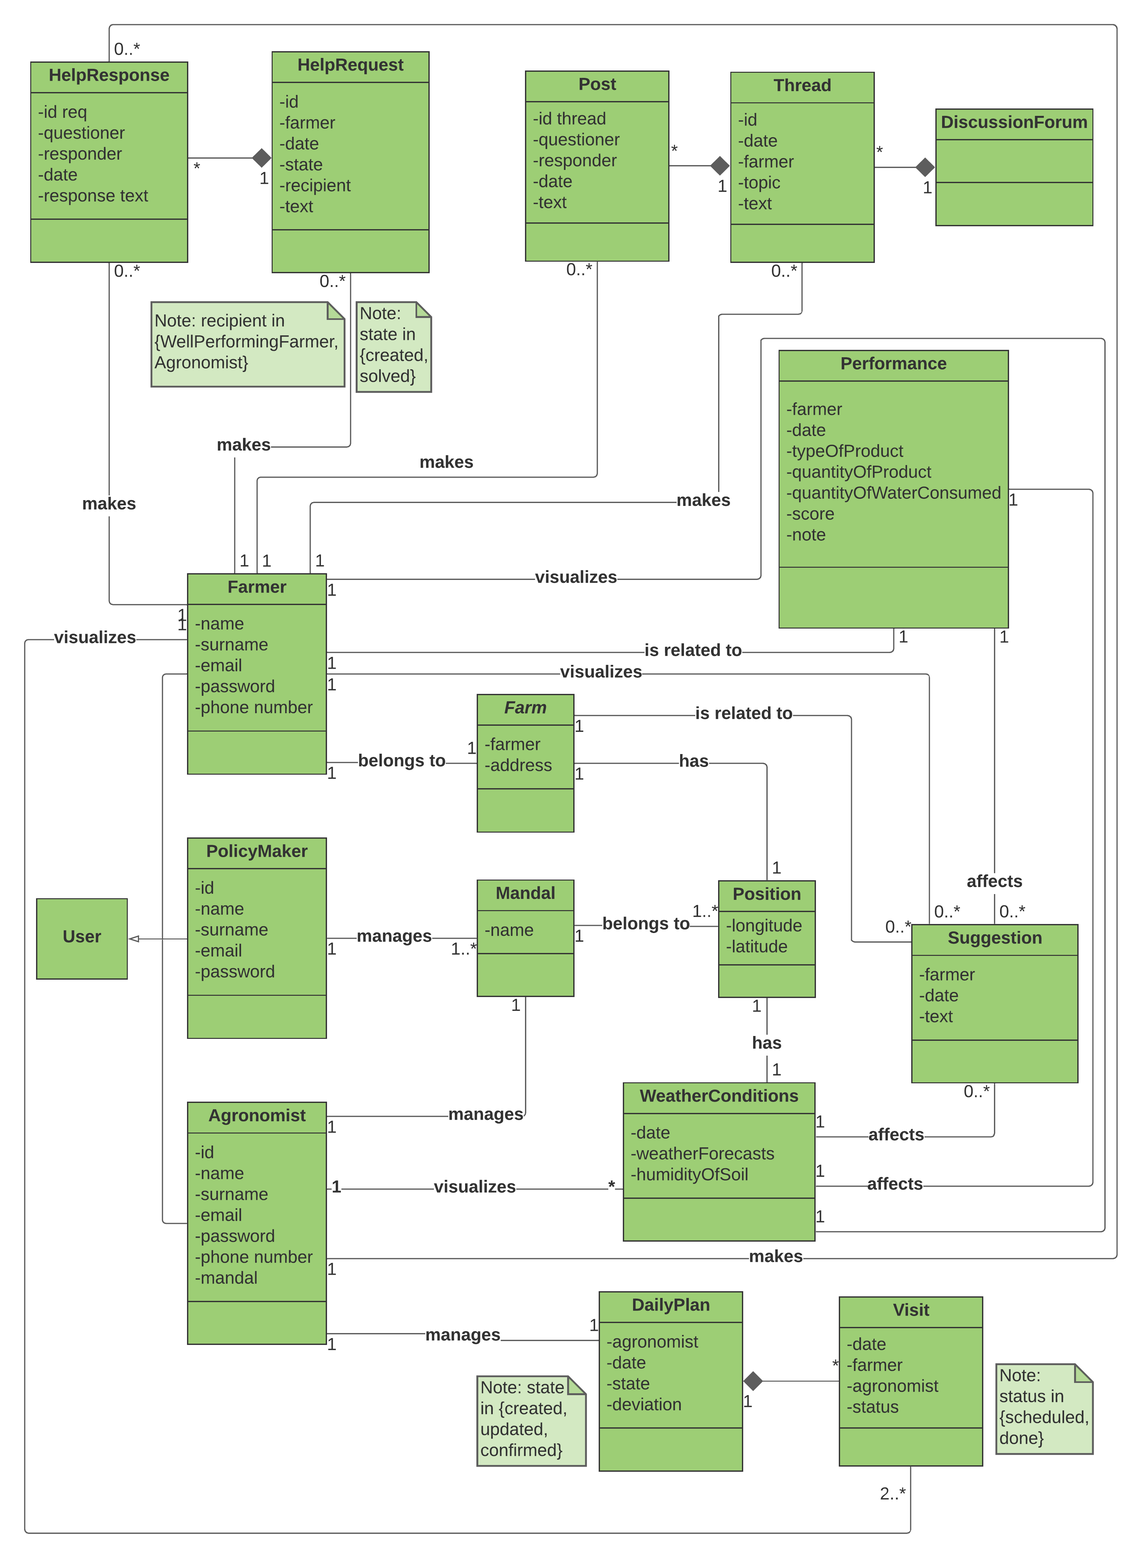
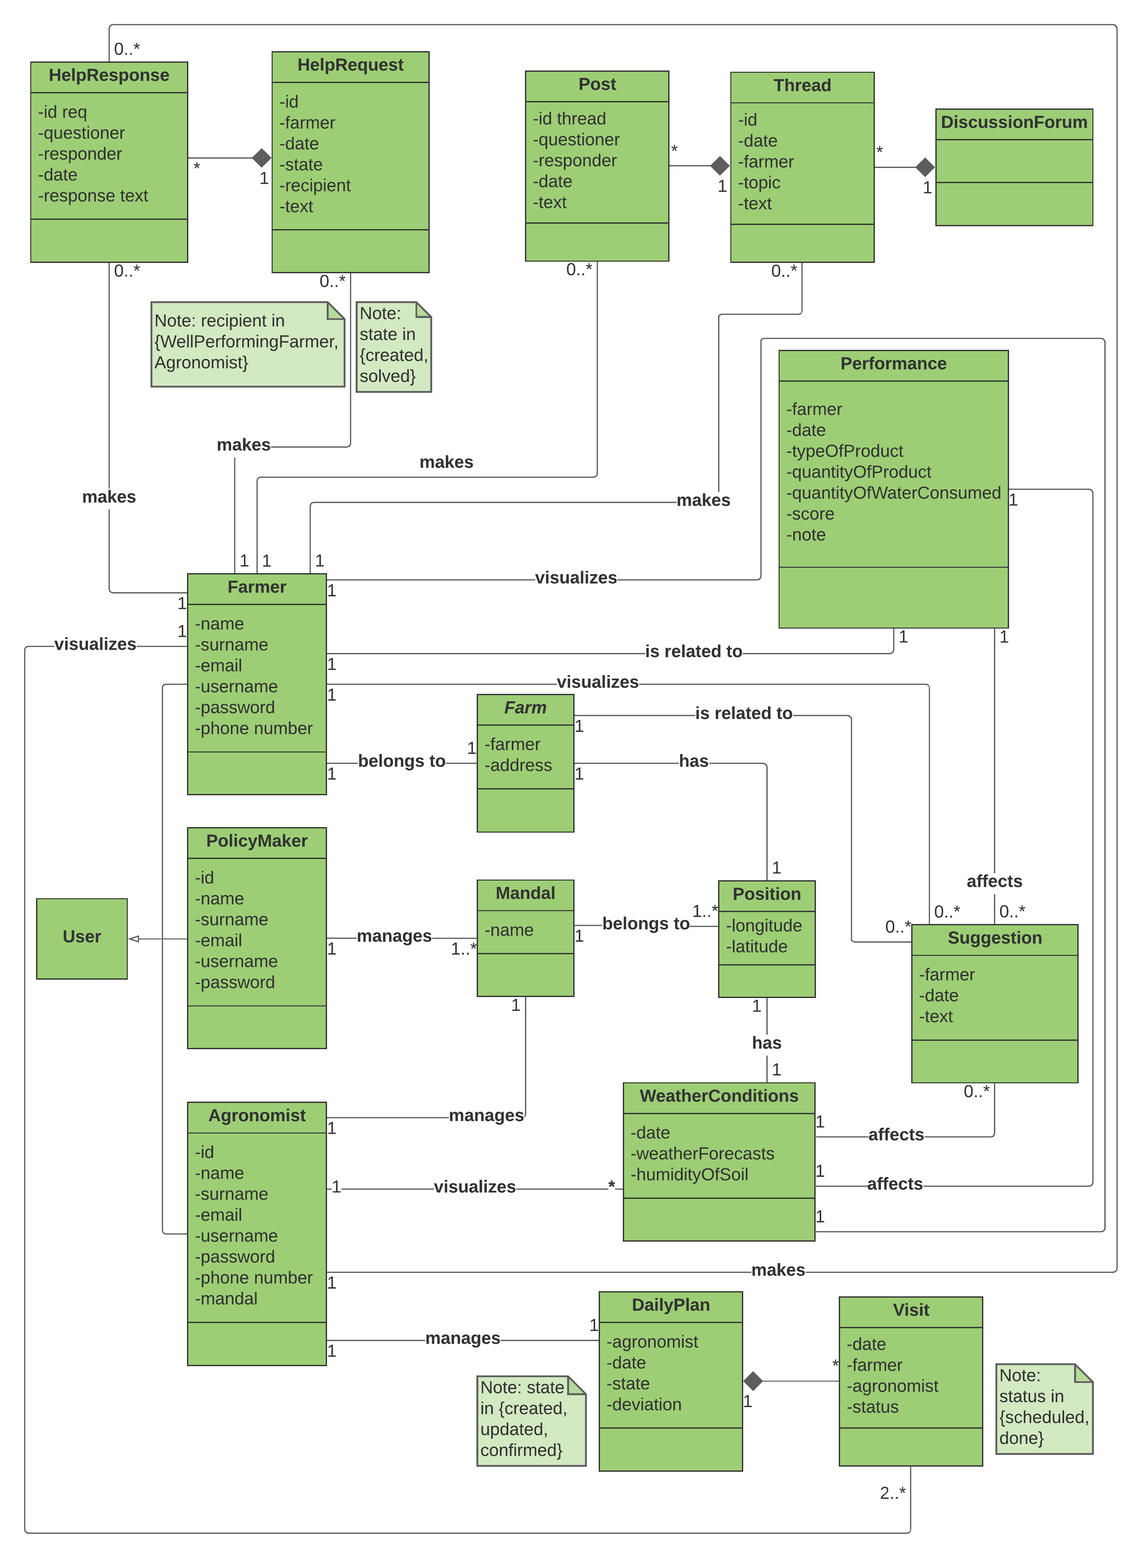
Adjustment of chap. 3

diff --git a/RASD/Chapters/Chapter3/3.1.1UserInterfaces.tex b/RASD/Chapters/Chapter3/3.1.1UserInterfaces.tex
@@ -1,3 +1,150 @@
 \subsection{User Interfaces}
+DREAM contains 2 main interfaces: mobile application and website interface.
+In both interfaces, all 3 actors can perform the same operations, from a mobile interface and from a website.
+However, it should be noted that certain features are more comfortable to use only from a certain interface.
+The following mockups will give a more detailed description in terms of interfaces.
 
-Vuoto
+\begin{figure}[H]
+  \includegraphics[width=140mm,scale=0.9]{./Images//Mocks/WebApp/Login.png}
+  \caption{Login}
+\end{figure}
+
+\begin{itemize}
+    \item \textbf{Website Login}\\ 
+    \textcolor{red}{The 3 actors of DREAM can access to the application through this login page. If they do not yet have an account, they can simply access the registration page via an appropriate button}
+\end{itemize}
+
+
+\begin{figure}[H]
+  \includegraphics[width=140mm,scale=0.9]{./Images//Mocks/WebApp/Registration.png}
+  \caption{Registration}
+\end{figure}
+
+\begin{itemize}
+    \item \textbf{Website Registration}\\ 
+    \textcolor{red}{The 3 actors can register to DREAM through this registration page, where there are some required fields, and registration is completed by accepting term and conditions}
+\end{itemize}
+
+
+\begin{figure}[H]
+  \includegraphics[width=140mm,scale=0.9]{./Images//Mocks/WebApp/PolicyMaker.png}
+  \caption{PolicyMaker Homepage}
+\end{figure}
+
+\begin{itemize}
+    \item \textbf{PolicyMaker Homepage}\\ 
+    \textcolor{red}{This is PolicyMaker homepage (in Figure 3.3 called "Dashboard") where the he/she con generate a Time chart according to some inputs, and can also visualize Telangana's farmers performance map.}
+\end{itemize}
+
+
+\begin{figure}[H]
+  \includegraphics[width=140mm,scale=0.9]{./Images//Mocks/WebApp/Agronomist_Home.png}
+  \caption{Agronomist Homepage}
+\end{figure}
+
+\begin{itemize}
+    \item \textbf{Agronomist Homepage}\\ 
+    \textcolor{red}{This is Agronomist homepage (in Figure 3.4 called "Dashboard") where he/she can view his/her mandal's farmer performance and the performance table, that resume, in ascending order (by performance), info's about farmers.}
+\end{itemize}
+
+
+\begin{figure}[H]
+  \includegraphics[width=140mm,scale=0.9]{./Images//Mocks/WebApp/Agronomist_Weather.png}
+  \caption{Agronomist Weather page}
+\end{figure}
+
+\begin{itemize}
+    \item \textbf{Agronomist Weather page}\\ 
+    \textcolor{red}{This is Agronomist weather page, where he/she can visualize info about weather conditions and soil moisture of his/her mandal}
+\end{itemize}
+
+
+\begin{figure}[H]
+  \includegraphics[width=140mm,scale=0.9]{./Images//Mocks/WebApp/Farmer_Home.png}
+  \caption{Farmer Home page}
+\end{figure}
+
+\begin{itemize}
+    \item \textbf{Farmer Home page}\\ 
+    \textcolor{red}{This is Farmer homepage (in Figure 3.6 called "Dashboard") where he/she can visualize weather conditions based on her/his location, can insert data about his/her production and can visualize on the calendar the next visit.}
+\end{itemize}
+
+
+\begin{figure}[H]
+  \includegraphics[width=140mm,scale=0.9]{./Images//Mocks/WebApp/Farmer_Forum.png}
+  \caption{Farmer Forum page}
+\end{figure}
+
+\begin{itemize}
+    \item \textbf{Farmer Forum page}\\ 
+    \textcolor{red}{This is Farmer forum section, where he can interact with other farmers by opening new threads or replying to existing one.}
+\end{itemize}
+
+
+\begin{figure}[H]
+  \centering
+  \begin{minipage}{0.4\textwidth}
+    \includegraphics[width=40mm,scale=0.9]{./Images//Mocks/Mobile/Login.png}
+    \caption{Mobile Login}
+   \end{minipage}
+   \hfill
+   \begin{minipage}{0.4\textwidth}
+     \includegraphics[width=40mm,scale=0.9]{./Images//Mocks/Mobile/Registration.png}
+     \caption{Mobile Registration}
+   \end{minipage}
+\end{figure}
+
+
+\begin{figure}[H]
+  \centering
+   \begin{minipage}{0.4\textwidth}
+     \includegraphics[width=40mm,scale=0.9]{./Images//Mocks/Mobile/Farmer_menu.png}
+     \caption{Mobile Farmer menu}
+   \end{minipage}
+    \hfill
+   \begin{minipage}{0.4\textwidth}
+     \includegraphics[width=40mm,scale=0.9]{./Images//Mocks/Mobile/Farmer_notif.png}
+     \caption{Mobile Farmer notifications}
+   \end{minipage}
+\end{figure}
+\newpage
+\begin{itemize}
+    \item \textbf{Figure 3.8: Mobile Login}\\ 
+    \textcolor{red}{Initial interface, it allows to one of the 3 actors of DREAM to log in by entering their credentials (Username and password)}
+\end{itemize}
+\begin{itemize}
+    \item \textbf{Figure 3.9: Mobile Registration}\\ 
+    \textcolor{red}{Through the registration interface, it is possible to create an account by  one of the 3 actors of DREAM.}
+\end{itemize}
+\begin{itemize}
+    \item \textbf{Figure 3.10: Mobile Farmer menu}\\ 
+    \textcolor{red}{Interface that shows actions that a farmer can perform in the application}
+\end{itemize}
+\begin{itemize}
+    \item \textbf{Figure 3.11: Mobile Farmer notifications}\\ 
+    \textcolor{red}{Interface that shows various kind of notifications received by a Farmer.}
+\end{itemize}
+\newpage
+
+\begin{figure}[H]
+  \centering
+   \begin{minipage}{0.4\textwidth}
+     \includegraphics[width=40mm,scale=0.9]{./Images//Mocks/Mobile/Farmer_help_req.png}
+     \caption{Mobile Farmer help request}
+   \end{minipage}
+    \hfill
+   \begin{minipage}{0.4\textwidth}
+     \includegraphics[width=40mm,scale=0.9]{./Images//Mocks/Mobile/Agronomist_daily_plan.png}
+     \caption{Mobile Agronomist daily plan}
+   \end{minipage}
+\end{figure}
+
+\begin{itemize}
+    \item \textbf{Figure 3.12: Mobile Farmer help request}\\ 
+    \textcolor{red}{Interface that shows an example of help request made by a Farmer to only an Agronomist.}
+\end{itemize}
+\begin{itemize}
+    \item \textbf{Figure 3.13: Mobile Agronomist daily plan}\\ 
+    \textcolor{red}{Interface that shows an example of update of the daily plane made by an Agronomist.}
+\end{itemize}
+\newpage

diff --git a/RASD/Chapters/Chapter1/1.2.1WorldAndSharedPhenomena.tex b/RASD/Chapters/Chapter1/1.2.1WorldAndSharedPhenomena.tex
@@ -16,36 +16,42 @@
 \textbf{Phenomenon} & \textbf{Who controls it?} & \textbf{Is it shared?}\\
 \hline
 
-A farmer signs up to the application or logs in if already registered & W & Y\\
+An Unregistered User signs up to the application & W & Y\\
+A User logs into the application & W & Y\\
 Telangana government assigns to each agronomist his ID code & W & N\\
-An agronomist registers into the application by using his ID code or logs in if already registered & W & Y\\
 Telangana government assigns to each policy maker his ID code & W & N\\
-\textcolor{green}{The system checks validity of ID code} & M & Y\\
-A policy maker registers into the application by using his ID code or logs in if already registered & W & Y\\
-The system processes the performance of a farmer (or more than one) & M & N\\
-A policy maker visualizes the performance trend of a farmer (or more than one) over time & W & Y\\
-A policy maker visualizes the performance score of a farmer (or more than one) & W & Y\\
-\noalign{\global\arrayrulewidth=0.3mm}
-\arrayrulecolor{gray}\hline
-The system notifies a farmer who is not performing well that it would be a good idea to request for help to an agronomist or a well performing farmer & M & Y\\
-The system notifies a farmer that he improved his performance and he is entitled to receive an incentive & M & Y\\
+Telangana government assigns to the agronomist the mandal which he is responsible of & W & N\\
+The system checks validity of data inserted by the (Unregistered) user when he (registers) logs into the application & M & Y\\
+The system retrieves weather forecasts, humidity of soil and amount of water used corresponding to a certain position & M & Y\\
+The system processes the performance of a farmer & M & N\\
+A policy maker selects the options which he wants to apply to the visualization of farmers' performance on the map & W & Y\\
+A policy maker visualizes the performance of farmers on a map & W & Y\\
+A policy maker selects the options which he wants to apply to the visualization of farmers' performance trend on the time chart & W & Y\\
+The system processes the performance trend of farmers over time according to the options selected by the policy maker & M & N\\
+A policy maker visualizes the performance trend of farmers over time on a time chart & W & Y\\
+A farmer receives an incentive & W & N\\
 The system retrieves longitude and latitude from the address of a farmer's land & M & N\\
-The system sends personalized suggestions to a farmer based on computed data & M & Y\\
-\textcolor{green}{The system retrieves weather forecasts, humidity of soil and amount of water used corresponding to a certain position} & M & Y\\
-A farmer visualizes relevant information which are: weather forecasts, soil moisture and personalized suggestions and visits & W & Y\\
-A farmer insert in the system the production of a certain period and the corresponding relevant data &  W & Y\\
-\textcolor{green}{A farmer makes a help request} & W & Y\\
-\textcolor{green}{The system assigns the help request to an agronomist and/or a well performing farmer} & M & N\\
+The system sends notification to the farmer & M & Y\\
+The system sends notification to the agronomist & M & Y\\
+The system processes farmer's personalized suggestions based on his position and his production & M & Y\\
+A farmer visualizes relevant information which are: weather forecasts, soil moisture and visits & W & Y\\
+A farmer inserts in the system data about his harvest & W & Y\\
+A farmer makes a help request & W & Y\\
+A farmer solves a help request & W & Y\\
+A well performing farmer replies to a help request & W & Y\\
+The system retrieves the help request recipients (agronomist or even well performing farmers) & M & N\\
+The system changes the status of an Help request & M & N\\
 A farmer opens a thread about a topic on the dedicated forum & W & Y\\
-A farmer calls the agronomist to reschedule a visit & W & N\\
+A farmer replies on the discussion forum creating a post & W & Y\\
+A farmer and his/her associated agronomist reschedule a visit on call & W & N\\
 The system associates each farmer to the corresponding mandal & M & N\\
-\noalign{\global\arrayrulewidth=0.3mm}
-\arrayrulecolor{gray}\hline
-An agronomist inserts in the system the mandal he is responsible of & W & Y\\
+The system associates each agronomist to the corresponding mandal & M & N\\
 An agronomist receives a help request from a farmer & M & N\\
 An agronomist replies to the help requests sent to him by farmers & W & Y\\
-An agronomist calls a farmer to cancel a visit & W & N\\
-An agronomist visualizes data about farmers of his mandal & W & Y\\
+An agronomist selects the options which he wants to apply to the visualization of farmers' performance score on the map & W & Y\\
+The system processes the performance score of farmers according to the options selected by the agronomist & M & N\\
+An agronomist visualizes performance score and personal information of farmers on a map & W & Y\\
+An agronomist visualizes on a table performance of his mandal's farmers & W & Y\\
 An agronomist visits a farm belonging to his mandal & W & N\\
 An agronomist visualizes weather conditions on the app & W & Y\\
 The system creates the agronomist's daily plan, guaranteeing at least two visits per year for each farmer & M & N\\
@@ -53,6 +59,7 @@ An agronomist visualizes his daily plan & W & Y\\
 An agronomist updates his daily plan & W & Y\\
 An agronomist carries out his daily plan & W & N\\
 An agronomist confirms his daily plan execution & W & Y\\
+The system changes the status of daily plan & M & N\\
 An agronomist specifies deviations from his daily plan at the end of the day & W & Y\\
 
 \end{longtable}

diff --git a/RASD/Chapters/Chapter2/2.3UserCharacteristics.tex b/RASD/Chapters/Chapter2/2.3UserCharacteristics.tex
@@ -1,8 +1,10 @@
 \section{Users Characteristics}
 The actors of the applications are the following:
 \begin{itemize}
-    \item \textit {Policy maker}: he is an institutional figure in the public or private sector who has the power to elaborate and determine guidelines and strategies on the most relevant issues for society and politics. \textcolor{red}{He is registered into the application.}
-    \item \textit {Agronomist}: he is a multidisciplinary professional figure. He works in favor of farms and small farmers by analyzing and developing projects based on direct observation and on the study of the best environmental solutions in order to improve productivity and enhance agricultural products. \textcolor{red}{He is registered into the application.}
-    \item \textit {Farmer}: he is the figure who deals with managing, carrying out and producing crops of different kinds and types, constantly taking care of their good health. Furthermore, the farmer ensures that the places where the cultivation takes place fully comply with the hygienic-sanitary rules of the cultivation. They also provide for the maintenance of the structures necessary for the activities and the reclamation of the environments in which the cultivation takes place. \textcolor{red}{He is registered into the application.}
-    \item \textit {Unregistered user}: a person who has not yet registered and is only allowed to sign up becoming either a Policy maker or an Agronomist or a Farmer depending on the type of membership.
+    \item \textit {Unregistered user}: a person who has not yet registered and is only allowed to sign up becoming either a Policy maker or an Agronomist or a Farmer depending on the type of role selected.
+    \item \textit {User}: a person who is already registered into the application and is allowed to sign in according to his role (Policy maker, Agronomist, Farmer).
+    \item \textit {Policy maker}: he is a User of DREAM. He is an institutional figure in the public or private sector who has the power to elaborate and determine guidelines and strategies on the most relevant issues for society and politics. 
+    \item \textit {Agronomist}: he is a User of DREAM. He is a multidisciplinary professional figure. He works in favor of farms and small farmers by analyzing and developing projects based on direct observation and on the study of the best environmental solutions in order to improve productivity and enhance agricultural products.
+    \item \textit {Farmer}: he is a User of DREAM. He is the figure who deals with managing, carrying out and producing crops of different kinds and types, constantly taking care of their good health. Furthermore, the farmer ensures that the places where the cultivation takes place fully comply with the hygienic-sanitary rules of the cultivation. They also provide for the maintenance of the structures necessary for the activities and the reclamation of the environments in which the cultivation takes place.
+
 \end{itemize}

diff --git a/RASD/Chapters/Chapter1/1.3.1Definitions.tex b/RASD/Chapters/Chapter1/1.3.1Definitions.tex
@@ -13,6 +13,7 @@
 \hline
 \textit{The System} & The whole system to be developed \\
 \textit{User} & A farmer/agronomist/policy maker who uses the application\\
+\textit{Unregistered User} & A farmer/agronomist/policy maker who is not yet registered into the application\\
 \textit{Application Service} & Functionality offered by the 
 System for certain users \\
 \textit{Policy Maker} & The user of the application who decides about new policies for Telangana \\
@@ -24,8 +25,6 @@ System for certain users \\
 \textit{Best Performing Farmers} & Best performing farmers identified by the system\\
 \textit{Agronomist} & The user of the application dealing with the management of a certain mandal\\
 \textit{Mandal} & A local government area and  administrative division. Telangana is subdivided into districts which are themselves subdivided into mandals\\
-\noalign{\global\arrayrulewidth=0.3mm}
-\arrayrulecolor{gray}\hline
 \textit{Daily Plan} & Application service that allows the agronomist to manage his daily work schedule. Specifically, it allows him to track and organize visits to farmers\\
 \textit{Discussion Forum} & Application service which a farmer can use to exchange ideas and opinions about a topic \\
 \textit{Post} & Contributions of the participants to the discussion placed one below the other in sequence\\

diff --git a/RASD/main.tex b/RASD/main.tex
@@ -42,11 +42,11 @@
 {\large Software Engineering 2}\\[0.4cm] 
 {\large Academic year 2021-2022}\\[0.5cm] 
 
-\HRule \\[1.5 cm]
-{\LARGE Requirements Analysis and Specification Document} \\[1cm]
-{\textbf {\Huge DREAM}}\\[0.3cm] 
-{\LARGE Data-dRiven PrEdictive FArMing in Telangana} \\[1cm]
-\HRule \\[1.5cm]
+\HRule \\[1 cm]
+{\LARGE \textbf{Requirements Analysis and Specification Document}} \\[0.7cm]
+\includegraphics[width=35mm,scale=0.5]{./Images/Mocks/Logo/DREAM logo.png}\\[0.5cm] 
+{\LARGE Data-dRiven PrEdictive FArMing in Telangana} \\[0.7cm]
+\HRule \\[1cm]
 \raggedright
 
 \begin{minipage}{0.55\textwidth}
@@ -56,13 +56,13 @@ Arslan \textsc{Ali}\hfill 971503 \\
 Elisa \textsc{Servidio}\hfill 996387 \\
 Federica \textsc{Suriano}\hfill 953085 \\
 \end{flushleft}
-\end{minipage}\\[1 cm]
+\end{minipage}\\[0.7 cm]
 ~
 
 \center
 
-{\large - -, 2021}\\[0.3 cm]
-{\large Version -.0}\\
+{\large December 23, 2021}\\[0.3 cm]
+{\large Version 1.0}\\
 
 \vfill 
 \end{titlepage}

diff --git a/RASD/Chapters/Chapter3/3.3PerformanceRequirements.tex b/RASD/Chapters/Chapter3/3.3PerformanceRequirements.tex
@@ -1,9 +1,5 @@
 \section{Performance Requirements}
 
-In order to evaluate the performance of the DREAM system it is necessary to specify:
-\begin{itemize}
-    \item Response Time: DREAM must maintain a response time of one second at most to allow all users to seamlessly interact with the application when needed;
-    \item Workload: the system should be capable of supporting 250'000 users;
-    \item Scalability:
-    \item Platform: 
-\end{itemize}
+In order to evaluate the performance of the DREAM system it is necessary to specify that DREAM must maintain a response time of 1 second at most to allow all users to seamlessly interact with the application when needed. Data obtained from external resources such as connections to external databases must also have adequate response times, less than 2 seconds.\\
+The system should be capable of supporting 250'000 users (workload).\\
+Partitioning techniques and replicated databases are used to make the system scalable.\\

diff --git a/RASD/Chapters/Chapter3/3.4.2HardwareLimitations.tex b/RASD/Chapters/Chapter3/3.4.2HardwareLimitations.tex
@@ -1,3 +1,11 @@
 \subsection{Hardware limitations}
 
-Vuoto
+Each user who intends to register for the application and then use it must have at least one of the following hardware devices:
+\begin{itemize}
+    \item \textcolor{red}{Da rivedere questa parte} Smartphone on which there is the possibility to install the DREAM app;
+    \item Computer on which there is the possibility to install the DREAM app or to access it from the browser.
+\end{itemize}
+
+Moreover, the sensors installed on the territory are necessary to retrieve the data relating to the soil.
+
+For the correct functioning of the system, the devices of the users must be connected to the internet therefore a LAN network must be installed and accessible by the user. In the case of a mobile device, it can also be connected to the Internet via the mobile network.

diff --git a/RASD/Chapters/Chapter1/1.1.1GoalsOfTheApplication.tex b/RASD/Chapters/Chapter1/1.1.1GoalsOfTheApplication.tex
@@ -4,7 +4,7 @@
     \item [\textit {G.2}] Allows policy makers to identify those farmers who are performing well
     \item [\textit {G.3}] Allows policy makers to identify those farmers who are performing badly
     \item [\textit {G.4}] Allows policy makers to verify the improvement of farmers who have been already helped by agronomist or good farmers
-    \item [\textit {G.5}] Allows farmers to visualize relevant information
+    \item [\textit {G.5}] Allows farmers to visualize weather conditions and their next visits
     \item [\textit {G.6}] Allows farmers to receive notifications
     \item [\textit {G.7}] Allows farmers to insert in the system data about their production and any problem they face
     \item [\textit {G.8}] Allows farmers to receive help from agronomist and other farmers through Help Requests

diff --git a/RASD/Chapters/Chapter3/3.1.2HardwareInterfaces.tex b/RASD/Chapters/Chapter3/3.1.2HardwareInterfaces.tex
@@ -1,4 +1,4 @@
 \subsection{Hardware Interfaces}
 
 All actors requires a compatible device (smartphone or personal computer) with Internet connection to allow DREAM to work properly.\\
-In particular, policy makers should access the application using a computer to maximize their experience while farmers should prefer to use a smartphone. Eventually agronomist must use both computer and smartphone using the application according to the functionalities they need to exploit.
+In particular, for policy makers is highly recommended to access  the application using a computer to maximize their experience while farmers should prefer to use a smartphone. Eventually agronomist must use both computer and smartphone using the application according to the functionalities they need to exploit.

diff --git a/RASD/Chapters/Chapter5/chapter5.tex b/RASD/Chapters/Chapter5/chapter5.tex
@@ -21,7 +21,7 @@ World and Shared phenomena & \hfil 1.00\\
 Class Diagram & \hfil 1.30\\
 State Diagrams & \hfil 0.30\\
 Scenarios & \hfil \\
-Mock-up  & \hfil \\
+Mock-up  & \hfil 8.00\\
 \hline
 \end{longtable}
 
@@ -54,6 +54,7 @@ Use Cases & \hfil 2.00\\
 Sequence Diagrams & \hfil 2.00\\
 Requirements & \hfil 1.30\\
 Traceability Matrix & \hfil 0.30\\
+Alloy & \hfil \\
 \hline
 \end{longtable}
 
@@ -83,5 +84,8 @@ Product functions & \hfil 2.00\\
 Use cases & \hfil 2.00\\
 Sequence diagrams & \hfil 2.00\\
 Requirements & \hfil 1.30\\
+Performance requirements& \hfil 0.20\\
+Design constraints& \hfil 0.20\\
+Software system attributes& \hfil 0.20\\
 \hline
 \end{longtable}

diff --git a/RASD/Chapters/Chapter3/3.2.5TraceabilityMatrix.tex b/RASD/Chapters/Chapter3/3.2.5TraceabilityMatrix.tex
@@ -49,7 +49,7 @@ In this section is reported a detailed mapping between requirements defined in \
  \hfil D7 & \hfil D8 & \hfil D10 & \hfil & \hfil & \hfil R6 & \hfil R7 & \hfil R11 & \hfil R12 & \hfil R13\\
  \hline
  \rowcolor{green2}
-   \multicolumn{10}{|l|}{\textbf{\small{\textit{\parbox{12.2cm}{G.5 Allows farmers to visualize relevant information}}}}}\\[5pt]
+   \multicolumn{10}{|l|}{\textbf{\small{\textit{\parbox{12.2cm}{G.5 Allows farmers to visualize weather conditions and their next visits}}}}}\\[5pt]
  \hline
  \rowcolor{white!65!green2!50}
 \multicolumn{5}{|c|}{\textbf{Domain Assumptions}} &  \multicolumn{5}{c|}{\textbf{Requirements}}\\

diff --git a/RASD/Chapters/Chapter3/3.5SoftwareSystemAttributes.tex b/RASD/Chapters/Chapter3/3.5SoftwareSystemAttributes.tex
@@ -1,9 +1,10 @@
 \section{Software System Attributes}
 
-Vuoto
+The software system attributes used to evaluate the performance of a system are listed below. DREAM is designed to respond to all the following attributes in order to ensure safe, easy and continuous use over time.
 
 \input{./Chapters/Chapter3/3.5.1Reliability.tex}
 \input{./Chapters/Chapter3/3.5.2Availability.tex}
 \input{./Chapters/Chapter3/3.5.3Security.tex}
 \input{./Chapters/Chapter3/3.5.4Maintainability.tex}
 \input{./Chapters/Chapter3/3.5.5Portability.tex}
+\input{./Chapters/Chapter3/3.5.6Usability.tex}
